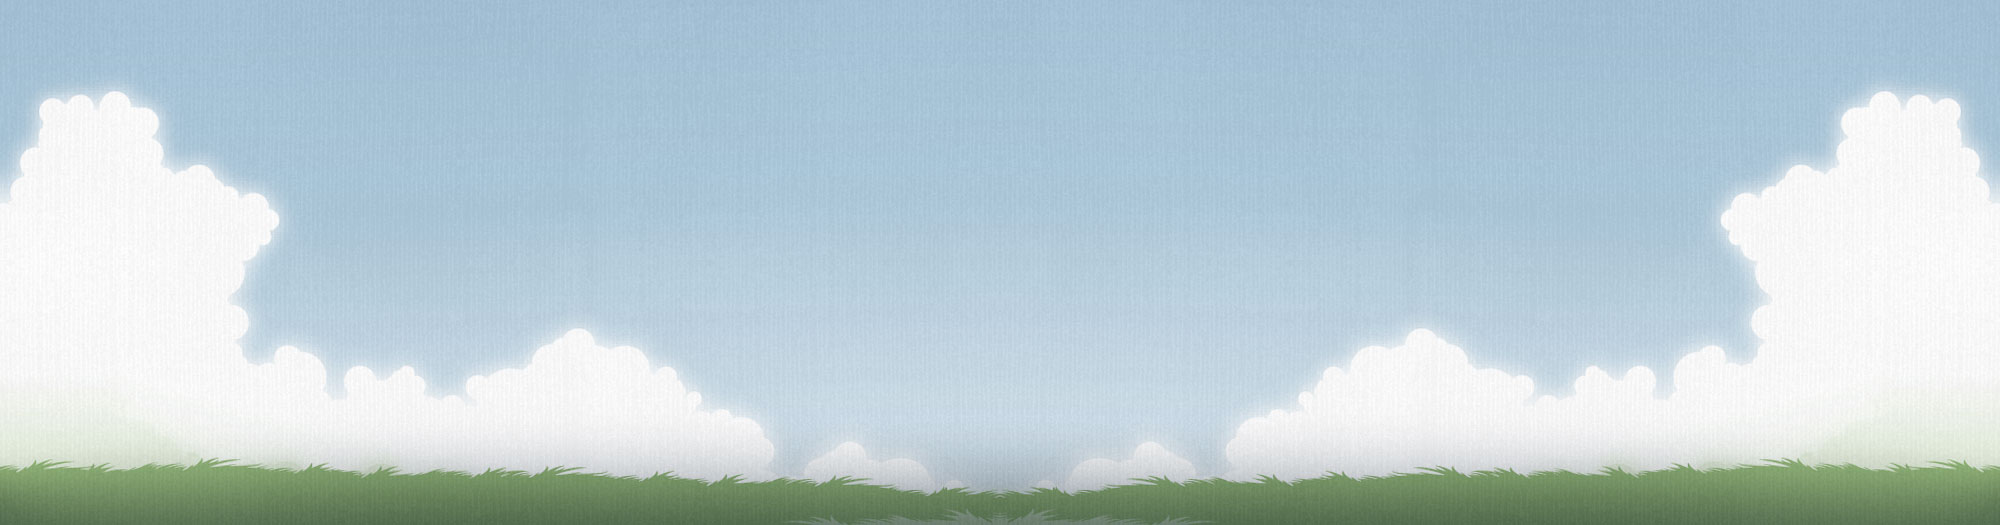
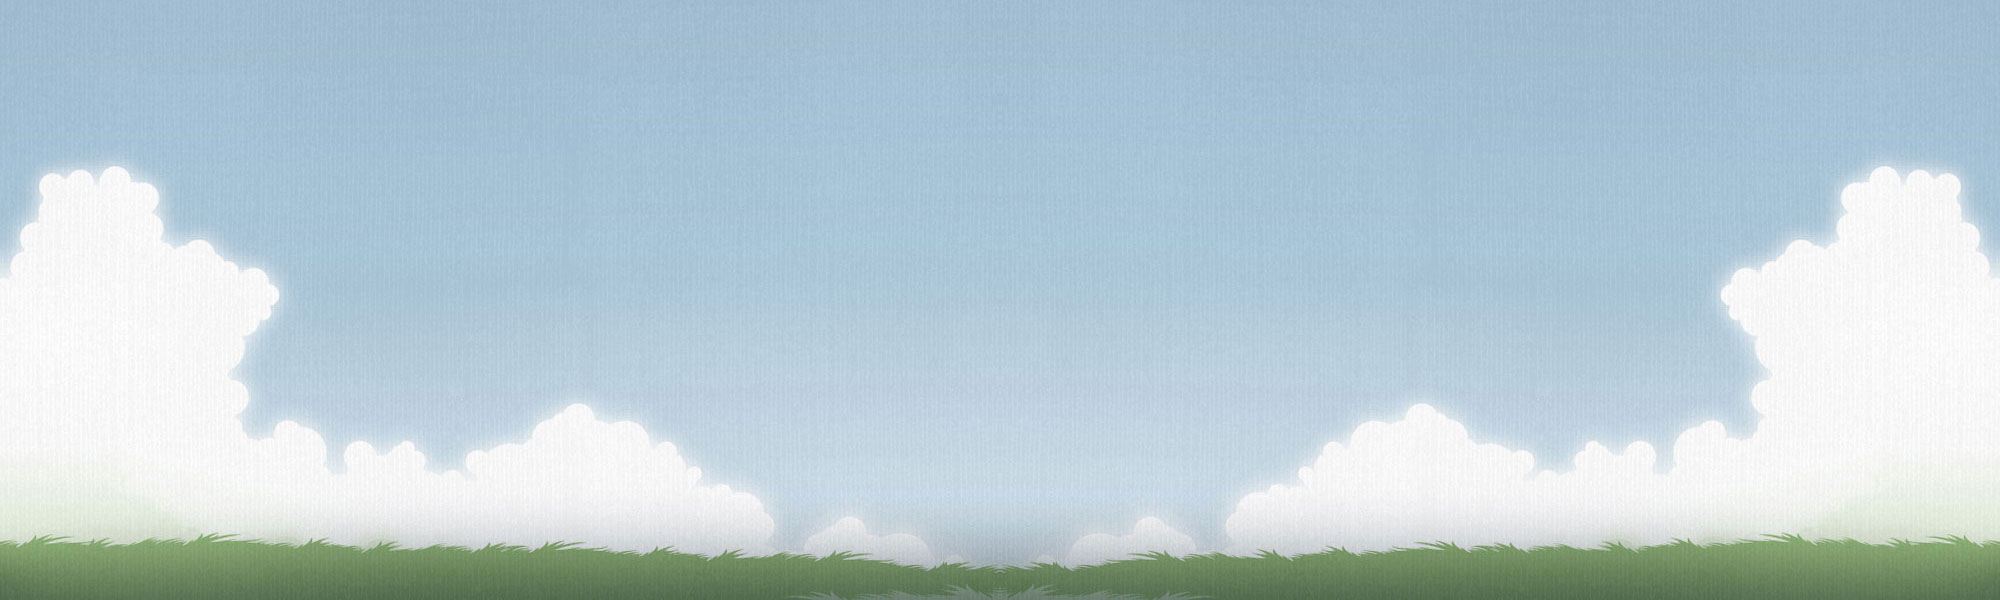
flash messages refactor, landing page header tweak

diff --git a/app/stylesheets/partials/_flashes.sass b/app/stylesheets/partials/_flashes.sass
@@ -1,35 +1,35 @@
-#flashes
+#flashes, .flashes
   +border-radius(5px)
   +box-shadow($very-light-grey, 0, 2px, 5px)
   margin: 0 auto
   padding-bottom: 1em
   width: 75%
-  #success, #notice, #warning, #validation_error, #error, #info
+  #success, #notice, #warning, #validation_error, #error, #info, .success, .notice, .warning, .validation_error, .error, .info
     padding: 15px 10px 15px 65px
     background-position: 15px 7px
     background-repeat: no-repeat
     margin-bottom: 5px
-  #success, #info
+  #success, #info, .success, .info
     border-color: #99cc99
     color: #4f8a10
     background-image: url(/images/alertsuccess_icon.png)
     background-color: #dff2bf
-  #notice
+  #notice, .notice
     border-color: #99cc99
     color: #00529b
     background-image: url(/images/alertinfo_icon.png)
     background-color: #bde5f8
-  #warning
+  #warning, .warning
     border-color: #99cc99
     color: #9f6000
     background-image: url(/images/alertwarning_icon.png)
     background-color: #feefb3
-  #validation_error
+  #validation_error, .validation_error
     border-color: #cc9999
     color: #d63301
     background-image: url(/images/alertvalidation_error_icon.png)
     background-color: #ffccba
-  #error
+  #error, .error
     border-color: #cc9999
     color: #d8000c
     background-image: url(/images/alerterror_icon.png)

diff --git a/app/stylesheets/partials/_promo_landing.sass b/app/stylesheets/partials/_promo_landing.sass
@@ -2,8 +2,8 @@
 body.landing
   background: image_url("landing_pattern.png")
   #header
-    background: image_url("landing_wall.jpg") no-repeat center top
-    height: 525px
+    background: image_url("landing_wall.jpg") no-repeat center bottom
+    height: 580px
     #admin
       margin-top: 42px
       span
@@ -25,11 +25,11 @@ body.landing
         margin: -9px 7px 0 0
         //width: 46px
     .wrapper
-      height: 525px
+      height: 580px
       position: relative
   #headline
     height: 145px
-    margin-top: 140px
+    margin-top: 162px
     width: 960px
     +replace-text("landing_headline.png")
   #kids
